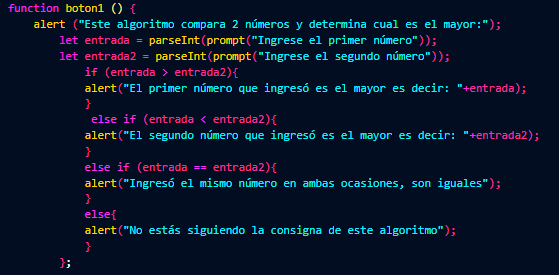
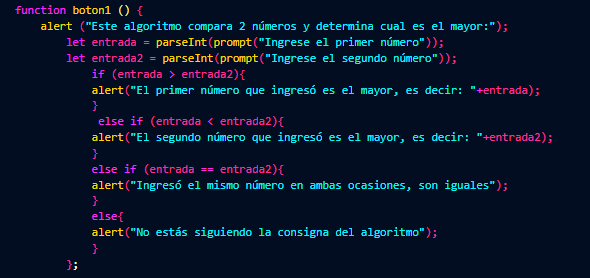
v.1.2

Changed region(s): [[0.0, 0.0, 0.9732, 0.9309], [0.0912, 0.9309, 0.1521, 0.9891]]

diff --git a/estilos/_footer.scss b/estilos/_footer.scss
@@ -1,13 +1,13 @@
-site-footer
+.site-footer
 {
-    background-color: map-get($colores, colorV);
-    padding:45px 0 20px;
+    background-color: #3b5998;
+    padding:45px 45px 45px 45px;
     font-size:15px;
     line-height:24px;
-    color: #3b5998;;
+
     & hr
     {
-        border-top-color: #3b5998;
+        border-top-color: #9db4e7;
         opacity:0.5;
     }
     & hr.small
@@ -16,7 +16,7 @@ site-footer
     }
     & h6
     {
-        color: #3b5998;
+        color: #b1bfdf;
         font-size:16px;
         text-transform:uppercase;
         margin-top:5px;
@@ -24,11 +24,11 @@ site-footer
     }
     & a
     {
-        color: #3b5998;
+        color: #bbc5dc43;
     }
     & a:hover
     {
-        color: #3b5998;
+        color: #0c214f;
         text-decoration:none;
     }
 
@@ -45,7 +45,7 @@ site-footer
         margin-left:6px;
         margin-right:0;
         border-radius:100%;
-        background-color: #3b5998;
+        background-color: #889fd3;
     }
     & img{
         width: 10.5rem;
@@ -62,11 +62,11 @@ site-footer
   }
   & a
   {
-    color: #3b5998;
+    color: #87a5e2;
   }
   & a:active,& a:focus,& a:hover
   {
-    color: #3b5998;
+    color: #044eed;
     text-decoration: none;
   }
   &.inline li

diff --git a/estilos/main.css b/estilos/main.css
@@ -76,4 +76,76 @@ main {
 }
 
 /* NAVBAR */
+.site-footer {
+  background-color: #3b5998;
+  padding: 45px 45px 45px 45px;
+  font-size: 15px;
+  line-height: 24px;
+}
+
+.site-footer hr {
+  border-top-color: #9db4e7;
+  opacity: 0.5;
+}
+
+.site-footer hr.small {
+  margin: 20px 0;
+}
+
+.site-footer h6 {
+  color: #b1bfdf;
+  font-size: 16px;
+  text-transform: uppercase;
+  margin-top: 5px;
+  letter-spacing: 2px;
+}
+
+.site-footer a {
+  color: #bbc5dc43;
+}
+
+.site-footer a:hover {
+  color: #0c214f;
+  text-decoration: none;
+}
+
+.site-footer .social-icons {
+  text-align: right;
+}
+
+.site-footer .social-icons a {
+  width: 40px;
+  height: 40px;
+  line-height: 40px;
+  margin-left: 6px;
+  margin-right: 0;
+  border-radius: 100%;
+  background-color: #889fd3;
+}
+
+.site-footer img {
+  width: 10.5rem;
+}
+
+.footer-links {
+  padding-left: 0;
+  list-style: none;
+}
+
+.footer-links li {
+  display: block;
+}
+
+.footer-links a {
+  color: #87a5e2;
+}
+
+.footer-links a:active, .footer-links a:focus, .footer-links a:hover {
+  color: #044eed;
+  text-decoration: none;
+}
+
+.footer-links.inline li {
+  display: inline-block;
+}
 /*# sourceMappingURL=main.css.map */

diff --git a/js/scripts.js b/js/scripts.js
@@ -3,16 +3,16 @@ function boton1 () {
         let entrada = parseInt(prompt("Ingrese el primer número"));
         let entrada2 = parseInt(prompt("Ingrese el segundo número"));
             if (entrada > entrada2){
-            alert("El primer número que ingresó es el mayor es decir: "+entrada);
+            alert("El primer número que ingresó es el mayor, es decir: "+entrada);
             }
              else if (entrada < entrada2){
-            alert("El segundo número que ingresó es el mayor es decir: "+entrada2);
+            alert("El segundo número que ingresó es el mayor, es decir: "+entrada2);
             }
             else if (entrada == entrada2){
             alert("Ingresó el mismo número en ambas ocasiones, son iguales");
             }
             else{
-            alert("No estás siguiendo la consigna de este algoritmo");
+            alert("No estás siguiendo la consigna del algoritmo");
             }
         };
 

diff --git a/index.html b/index.html
@@ -68,11 +68,11 @@
 </main>
 <!-- SECCION MAIN -->
 <footer class="site-footer">
-  <div class="container">
+  <div class="container site-footer">
     <div class="row">
       <div class="col-sm-12 col-md-6">
         <h6>Información:</h6>
-        <p class="text-justify"></i> Marcos Garzon -<i> Comisión 30315<br> </i> Repositorio: <a href="https://github.com/marcosgarzon/JavaScript-30315"></a></div>
+        <p class="text-justify"></i> Marcos Garzon -<i> Comisión 30315<br> </i> <a href="https://github.com/marcosgarzon/JavaScript-30315">Repositorio</a></div>
       <div class="col-xs-6 col-md-3">
         <h6>Categorias</h6>
         <ul class="footer-links">
